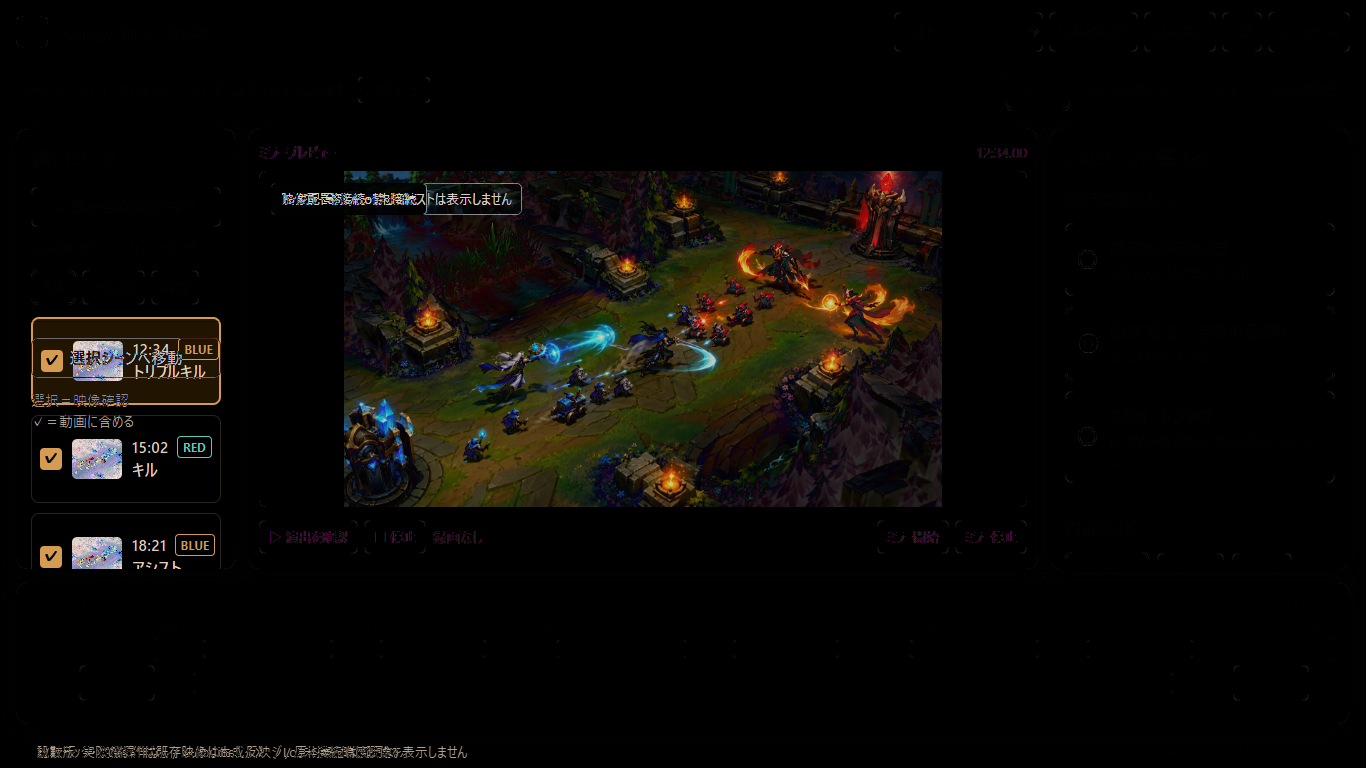
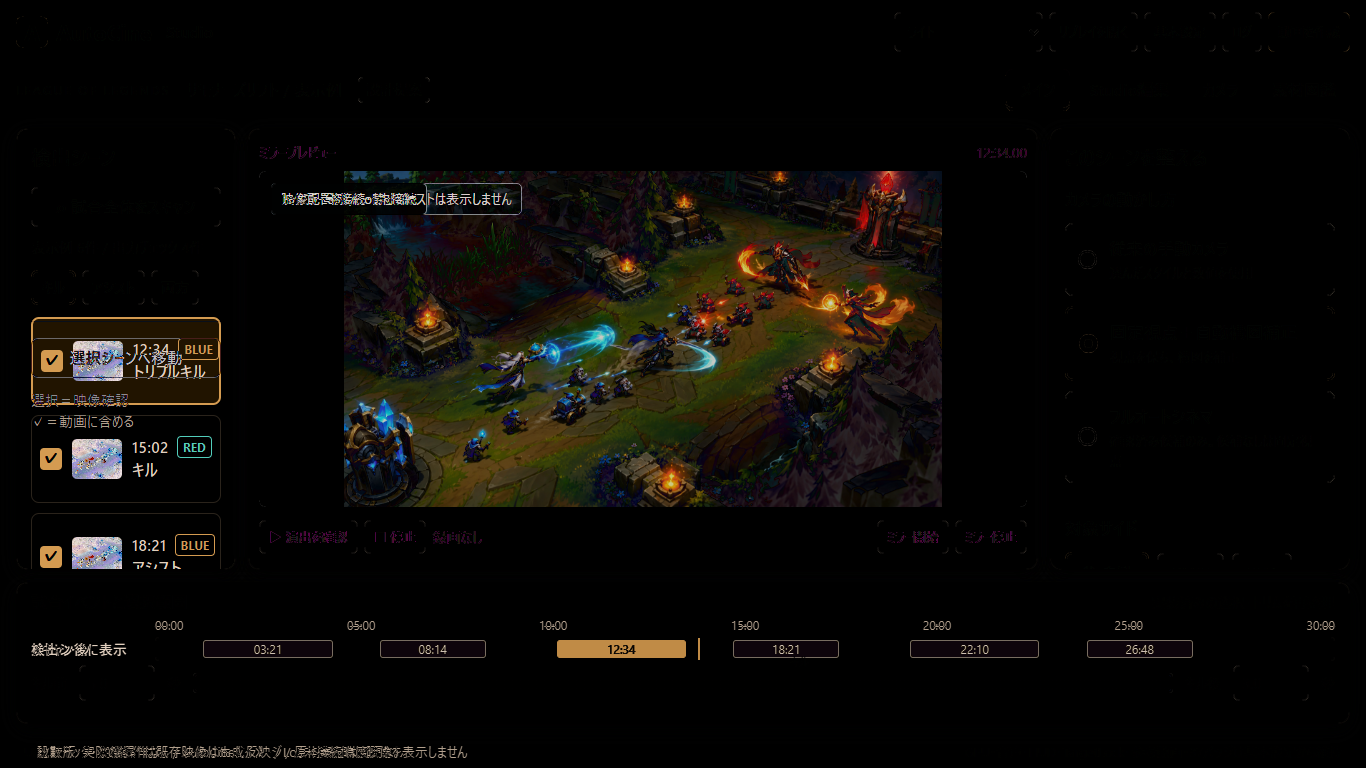
Bind scene project editing and live timeline in UI comparison

diff --git a/LoL_AutoCine/ui/audit29_client.js b/LoL_AutoCine/ui/audit29_client.js
@@ -52,6 +52,51 @@
     image.alt = '実LoLミラー映像は接続後に表示します';
     image.style.visibility = 'hidden';
   }
+  function sceneTime(seconds) {
+    return `${String(Math.floor(seconds/60)).padStart(2,'0')}:` +
+      String(Math.floor(seconds%60)).padStart(2,'0');
+  }
+  function renderTimeline(data) {
+    const timeline=document.querySelector('[data-ui="timeline"]');
+    if (!timeline) return;
+    const duration=Math.max(data.scan.duration || 0,
+      ...data.scenes.map(scene=>scene.time + 10),0);
+    const ruler=[...timeline.querySelectorAll('.ruler span')];
+    ruler.forEach((tick,index)=>{
+      tick.textContent=duration ? sceneTime(duration*index/Math.max(ruler.length-1,1)) : '—';
+    });
+    const lanes=[...timeline.querySelectorAll('.lane')];
+    lanes.forEach((lane,index)=>{
+      if (index>0) {
+        // The source mock draws sample camera/FX clips; no per-scene clip data is available here.
+        lane.style.display='none';
+        return;
+      }
+      const bar=lane.querySelector('.lane-bar');
+      if (!bar) return;
+      bar.querySelectorAll('.clip').forEach(clip=>clip.remove());
+      const marker=bar.querySelector('.kill-line');
+      const selected=data.scenes.find(scene=>scene.selected);
+      if (marker) {
+        marker.style.display=selected && duration ? '' : 'none';
+        if (selected && duration) marker.style.left=`${Math.min(100,100*selected.time/duration)}%`;
+      }
+      for (const scene of data.scenes) {
+        const clip=document.createElement('span');
+        clip.className=`clip${scene.selected?' active':''}`;
+        clip.dataset.sceneIndex=String(scene.index);
+        clip.textContent=sceneTime(scene.time);
+        clip.title=`${sceneTime(scene.time)} ${scene.role==='assist'?'アシスト':'キル'} ` +
+          `${scene.side || 'サイド不明'} / ${scene.checked?'出力対象':'出力対象外'}`;
+        clip.style.left=`${Math.min(97,100*scene.time/duration)}%`;
+        clip.style.width=`${Math.max(2.5,Math.min(12,800/duration))}%`;
+        clip.style.cursor='pointer';
+        bar.append(clip);
+      }
+      const label=lane.querySelector('.lane-label');
+      if (label) label.textContent=data.scenes.length ? `検出シーン ${data.scenes.length}件` : 'スキャン後に表示';
+    });
+  }
   function render() {
     const data = state.value;
     if (!data) return;
@@ -71,6 +116,7 @@
         (data.scan.percent > 0 && data.scan.percent < 100 ? ` / スキャン ${Math.round(data.scan.percent)}%` : '');
       countLabel.title = data.scan.status;
     }
+    renderTimeline(data);
     const sampleCards = [...document.querySelectorAll('[data-ui^="scene-card-"]')];
     if (sampleCards.length && data.scenes.length > sampleCards.length) {
       const parent = sampleCards[0].parentElement;
@@ -196,6 +242,33 @@
     cancel.addEventListener('click',event=>{event.stopPropagation();veil.remove()});
     panel.append(cancel);veil.append(panel);document.body.append(veil);
   }
+  function chooseProjectOperation() {
+    const veil=document.createElement('div');
+    veil.style.cssText='position:fixed;inset:0;background:#071321aa;z-index:3000;' +
+      'display:grid;place-items:center';
+    const panel=document.createElement('div');
+    panel.style.cssText='background:var(--panel);color:var(--ink);padding:24px;' +
+      'border:1px solid var(--line);border-radius:12px;min-width:330px;box-shadow:0 10px 30px #0006';
+    const heading=document.createElement('h2');
+    heading.textContent='シーン編集プロジェクト';
+    panel.append(heading);
+    for (const [name,label] of [
+      ['project_export','JSONファイルに保存'], ['project_import','JSONファイルから読み込む']
+    ]) {
+      const item=document.createElement('button');
+      item.textContent=label;
+      item.style.cssText='display:block;width:100%;margin:8px 0;padding:10px';
+      item.addEventListener('click',event=>{
+        event.stopPropagation();veil.remove();invoke(name);
+      });
+      panel.append(item);
+    }
+    const cancel=document.createElement('button');
+    cancel.textContent='キャンセル';
+    cancel.style.cssText='display:block;width:100%;margin-top:12px;padding:10px';
+    cancel.addEventListener('click',event=>{event.stopPropagation();veil.remove()});
+    panel.append(cancel);veil.append(panel);document.body.append(veil);
+  }
   function operation(button) {
     const label = button.textContent.trim().replace(/\s+/g,' ');
     if (/リプレイを開く/.test(label)) return ['open_replay'];
@@ -205,6 +278,12 @@
     if (/ミラー停止/.test(label)) return ['mirror_stop'];
     if (/演出を確認|演出プレビュー.*再生/.test(label)) return ['preview_play'];
     if (/^■?\s*停止$/.test(label)) return ['preview_stop'];
+    if (/^基本設定$/.test(label)) return ['native_settings'];
+    if (/このシーンに保存/.test(label)) return ['scene_save'];
+    if (/元に戻す/.test(label)) return ['scene_undo'];
+    if (/やり直す/.test(label)) return ['scene_redo'];
+    if (/キーフレーム・色・DOFを開く/.test(label)) return ['native_editor_zone',{zone:'scene'}];
+    if (/プロジェクト保存・読み込み/.test(label)) return ['project_menu'];
     if (/動画を作成|書き出す/.test(label)) return ['export_menu'];
     if (/ログ|診断/.test(label)) return ['diagnostics'];
     if (/選択シーンへ移動/.test(label)) return ['jump_selected'];
@@ -219,6 +298,11 @@
     return null;
   }
   document.addEventListener('click', event => {
+    const timelineClip=event.target.closest('[data-ui="timeline"] .clip[data-scene-index]');
+    if (timelineClip) {
+      invoke('select_scene',{index:Number(timelineClip.dataset.sceneIndex)});
+      return;
+    }
     const check = event.target.closest('.scene-card .check');
     if (check) {
       event.stopPropagation();
@@ -267,6 +351,7 @@
     if (!button) return;
     const found = operation(button);
     if (found?.[0] === 'export_menu') chooseExport();
+    else if (found?.[0] === 'project_menu') chooseProjectOperation();
     else if (found) invoke(found[0],found[1]);
     else message('この操作の実機接続は未完了です。動作済みとは扱いません。');
   });

diff --git a/LoL_AutoCine/ui/audit29_runtime.py b/LoL_AutoCine/ui/audit29_runtime.py
@@ -136,7 +136,8 @@ class Audit29Runtime:
             "selected_scene_index": selected[0] if selected else None,
             "checked_count": len(app.checked_kills),
             "scan": {"status": str(app.lbl_scan.cget("text")) if hasattr(app, "lbl_scan") else "未スキャン",
-                     "percent": float(app.pb_scan["value"]) if hasattr(app, "pb_scan") else 0.0},
+                     "percent": float(app.pb_scan["value"]) if hasattr(app, "pb_scan") else 0.0,
+                     "duration": float(getattr(getattr(app, "_match_scan_cache", None), "length", 0) or 0)},
             "event_mode": app.var_event_mode.get(),
             "camera": {"mode": app.var_camera_control_mode.get(),
                        "side": app.var_camera_side.get(), "style": app.var_style.get(),
@@ -301,6 +302,35 @@ class Audit29Runtime:
             app.on_stop()
         elif action == "output_folder":
             app.on_pick_out()
+        elif action == "scene_save":
+            if not app.lb_kills.curselection():
+                raise ValueError("先に保存するシーンを選択してください")
+            if app.busy:
+                raise ValueError("書き出し中はシーン設定を保存できません")
+            app.on_save_scene()
+        elif action == "scene_undo":
+            app.on_scene_undo()
+        elif action == "scene_redo":
+            app.on_scene_redo()
+        elif action == "project_export":
+            app.root.deiconify()
+            app.root.lift()
+            app.on_scene_export()
+        elif action == "project_import":
+            app.root.deiconify()
+            app.root.lift()
+            app.on_scene_import()
+        elif action == "native_settings":
+            app._focus_settings()
+            app.root.deiconify()
+            app.root.lift()
+        elif action == "native_editor_zone":
+            zone = str(data["zone"])
+            if zone not in ("scene", "camera", "color", "fx", "output"):
+                raise ValueError("unknown editor zone")
+            app._focus_editor_zone(zone)
+            app.root.deiconify()
+            app.root.lift()
         elif action == "diagnostics":
             app.on_show_diagnostics()
         elif action == "automatic_qa":

diff --git a/LoL_AutoCine/ui/audit29_server.py b/LoL_AutoCine/ui/audit29_server.py
@@ -44,10 +44,10 @@ class TkDispatcher:
                 future.set_exception(exc)
         self.root.after(20, self._drain)
 
-    def call(self, fn):
+    def call(self, fn, *, timeout=30):
         future = Future()
         self.queue.put((fn, future))
-        return future.result(timeout=30)
+        return future.result(timeout=timeout)
 
 
 class UI29Server:
@@ -208,7 +208,11 @@ result.textContent = JSON.stringify(boxes); document.body.append(result);
                     body = json.loads(self.rfile.read(length))
                     action = str(body["action"])
                     payload = body.get("data") or {}
-                    result = owner.dispatcher.call(lambda: owner.runtime.perform(action, payload))
+                    # Native file dialogs legitimately stay open while a user chooses a path.
+                    # Do not report a false HTTP failure after the default 30-second wait.
+                    dialog_actions = {"open_replay", "project_export", "project_import", "output_folder"}
+                    result = owner.dispatcher.call(lambda: owner.runtime.perform(action, payload),
+                                                   timeout=None if action in dialog_actions else 30)
                     return self._json(200, result)
                 except (ValueError, KeyError, NotImplementedError) as exc:
                     return self._json(422, {"error": str(exc)})

diff --git a/LoL_AutoCine/tests/test_ui29_runtime.py b/LoL_AutoCine/tests/test_ui29_runtime.py
@@ -107,6 +107,22 @@ class Audit29RuntimeTests(unittest.TestCase):
             self.assertEqual(app.var_camera_side.get(), "レッド側基準")
             self.assertEqual(app.var_kill_icon_motion.get(), "左から登場")
 
+    def test_scene_edit_buttons_dispatch_to_existing_project(self):
+        app = App()
+        called = []
+        app.on_save_scene = lambda: called.append("save")
+        app.on_scene_undo = lambda: called.append("undo")
+        app.on_scene_redo = lambda: called.append("redo")
+        with TemporaryDirectory(dir=ROOT / "qa") as directory:
+            runtime = Audit29Runtime(app, Path(directory) / "workspace.json")
+            for action in ("scene_save", "scene_undo", "scene_redo"):
+                runtime.perform(action)
+            self.assertEqual(called, ["save", "undo", "redo"])
+            app.lb_kills.selected = ()
+            with self.assertRaisesRegex(ValueError, "シーンを選択"):
+                runtime.perform("scene_save")
+            self.assertEqual(called, ["save", "undo", "redo"])
+
     def test_local_server_uses_editable_source_and_rejects_old_placeholder(self):
         with TemporaryDirectory(dir=ROOT / "qa") as directory:
             server = UI29Server(App(), Path(directory) / "workspace.json")

diff --git a/LoL_AutoCine/qa/ui29/README_JA.md b/LoL_AutoCine/qa/ui29/README_JA.md
@@ -12,7 +12,9 @@
 - `baseline/index.json` は29件すべて `NOT_RUN`。これは実装キャプチャやLoL実機を確認していないという意味で、合格ではない。
 - `source_baseline/index.json` は新18画面の元HTMLをEdgeで再描画して原画像と比べた**設計元の再現性**。全18件を同じ原寸で取得でき、全画素RGB平均絶対差は0.2324〜0.8607/255。これはライブ接続したUIの視覚合格ではない。
 - `local_bridge_probe.json` は本物の `legacy_app.App` とローカルUIブリッジを使い、新A→新E→新Aの切替後もカメラ側・距離・登場モーションを維持した結果。LoLリプレイ、GPU、録画、音声、書き出しは起動していない。
-- `live_offline/` は本物のAppとUIサーバーを起動して新18画面をEdgeで撮影した**LoL未接続の画面審査**。各画面に実装PNG、原本、50%重ね、差分、DOM矩形、結果JSONを保存した。実カタログ画像をつないだ現行キャプチャでは、18画面の映像領域外RGB平均絶対差は0.40〜4.32/255。308矩形のうち222が許容内、86が範囲外。シーンカードを未接続時に隠した差などを含む。5画面は全矩形が許容内だが、`MEASURED` は視覚・実機の合格を意味しない。旧11画面は `NOT_RUN` のまま。
+- `live_offline/` は本物のAppとUIサーバーを起動して新18画面をEdgeで撮影した**LoL未接続の画面審査**。各画面に実装PNG、原本、50%重ね、差分、DOM矩形、結果JSONを保存した。現在の18画面の映像領域外RGB平均絶対差は0.40〜9.73/255。308矩形のうち220が許容内、88が範囲外。実データのないシーンカードとタイムラインの表示例を隠したため、一部画面の原画との差は増えた。5画面は全矩形が許容内だが、`MEASURED` は視覚・実機の合格を意味しない。旧11画面は `NOT_RUN` のまま。
+- 新A〜Fのシーン一覧はスキャン結果の全件を使い、キル／アシストとBLUE／REDを実データから表示する。検出シーンのタイムラインも実時刻と試合長から描画し、クリックでシーン選択へ接続した。データのないカメラ／FXレーンは表示例を実適用として見せない。
+- 新Eの詳細編集ではシーン保存・Undo/Redoを既存プロジェクトへ接続した。プロジェクトJSONの保存／読み込み、基本設定、キーフレーム編集は既存Tk画面を開く。これらのファイルダイアログと実機操作はオフライン画像審査では未確認。
 
 ## 画面ごとの審査
 

diff --git a/LoL_AutoCine/qa/ui29/STATUS_JA.md b/LoL_AutoCine/qa/ui29/STATUS_JA.md
@@ -27,19 +27,19 @@
 | T-B-C | 旧テストB カメラ・FX | 未実装 | NOT_RUN | — | — | NOT_RUN |
 | T-B-F | 旧テストB カメラ・FX | 未実装 | NOT_RUN | — | — | NOT_RUN |
 | T-B-M | 旧テストB カメラ・FX | 未実装 | NOT_RUN | — | — | NOT_RUN |
-| R-A-main | 新A Studio | 部分実装 | REVIEW | 3.273 | 13/23 | NOT_RUN |
+| R-A-main | 新A Studio | 部分実装 | REVIEW | 9.7284 | 12/23 | NOT_RUN |
 | R-B-main | 新B Creator | 部分実装 | MEASURED | 0.7406 | 15/15 | NOT_RUN |
 | R-C-main | 新C Director | 部分実装 | REVIEW | 0.4395 | 14/15 | NOT_RUN |
 | R-D-main | 新D Highlights | 部分実装 | MEASURED | 1.056 | 12/12 | NOT_RUN |
 | R-E-main | 新E Flow | 部分実装 | MEASURED | 0.4049 | 13/13 | NOT_RUN |
 | R-F-main | 新F Killbeat | 部分実装 | REVIEW | 2.7946 | 11/18 | NOT_RUN |
-| R-A-main-dark | 新A Studio | 部分実装 | REVIEW | 1.8623 | 13/23 | NOT_RUN |
+| R-A-main-dark | 新A Studio | 部分実装 | REVIEW | 8.188 | 12/23 | NOT_RUN |
 | R-E-main-dark | 新E Flow | 部分実装 | MEASURED | 0.406 | 13/13 | NOT_RUN |
-| R-A-camera | 新A Studio | 部分実装 | REVIEW | 4.3212 | 13/25 | NOT_RUN |
+| R-A-camera | 新A Studio | 部分実装 | REVIEW | 4.7227 | 13/25 | NOT_RUN |
 | R-A-frames | 新A Studio | 部分実装 | REVIEW | 3.5286 | 11/16 | NOT_RUN |
-| R-E-studio | 新E Flow | 部分実装 | REVIEW | 3.8897 | 13/23 | NOT_RUN |
+| R-E-studio | 新E Flow | 部分実装 | REVIEW | 4.2912 | 13/23 | NOT_RUN |
 | R-E-frames | 新E Flow | 部分実装 | REVIEW | 3.5288 | 11/16 | NOT_RUN |
-| R-A-main-1366x768 | 新A Studio | 部分実装 | REVIEW | 2.8901 | 13/23 | NOT_RUN |
+| R-A-main-1366x768 | 新A Studio | 部分実装 | REVIEW | 3.7992 | 13/23 | NOT_RUN |
 | R-B-main-1366x768 | 新B Creator | 部分実装 | REVIEW | 1.1127 | 11/15 | NOT_RUN |
 | R-C-main-1366x768 | 新C Director | 部分実装 | REVIEW | 0.7225 | 11/15 | NOT_RUN |
 | R-D-main-1366x768 | 新D Highlights | 部分実装 | MEASURED | 0.933 | 12/12 | NOT_RUN |
